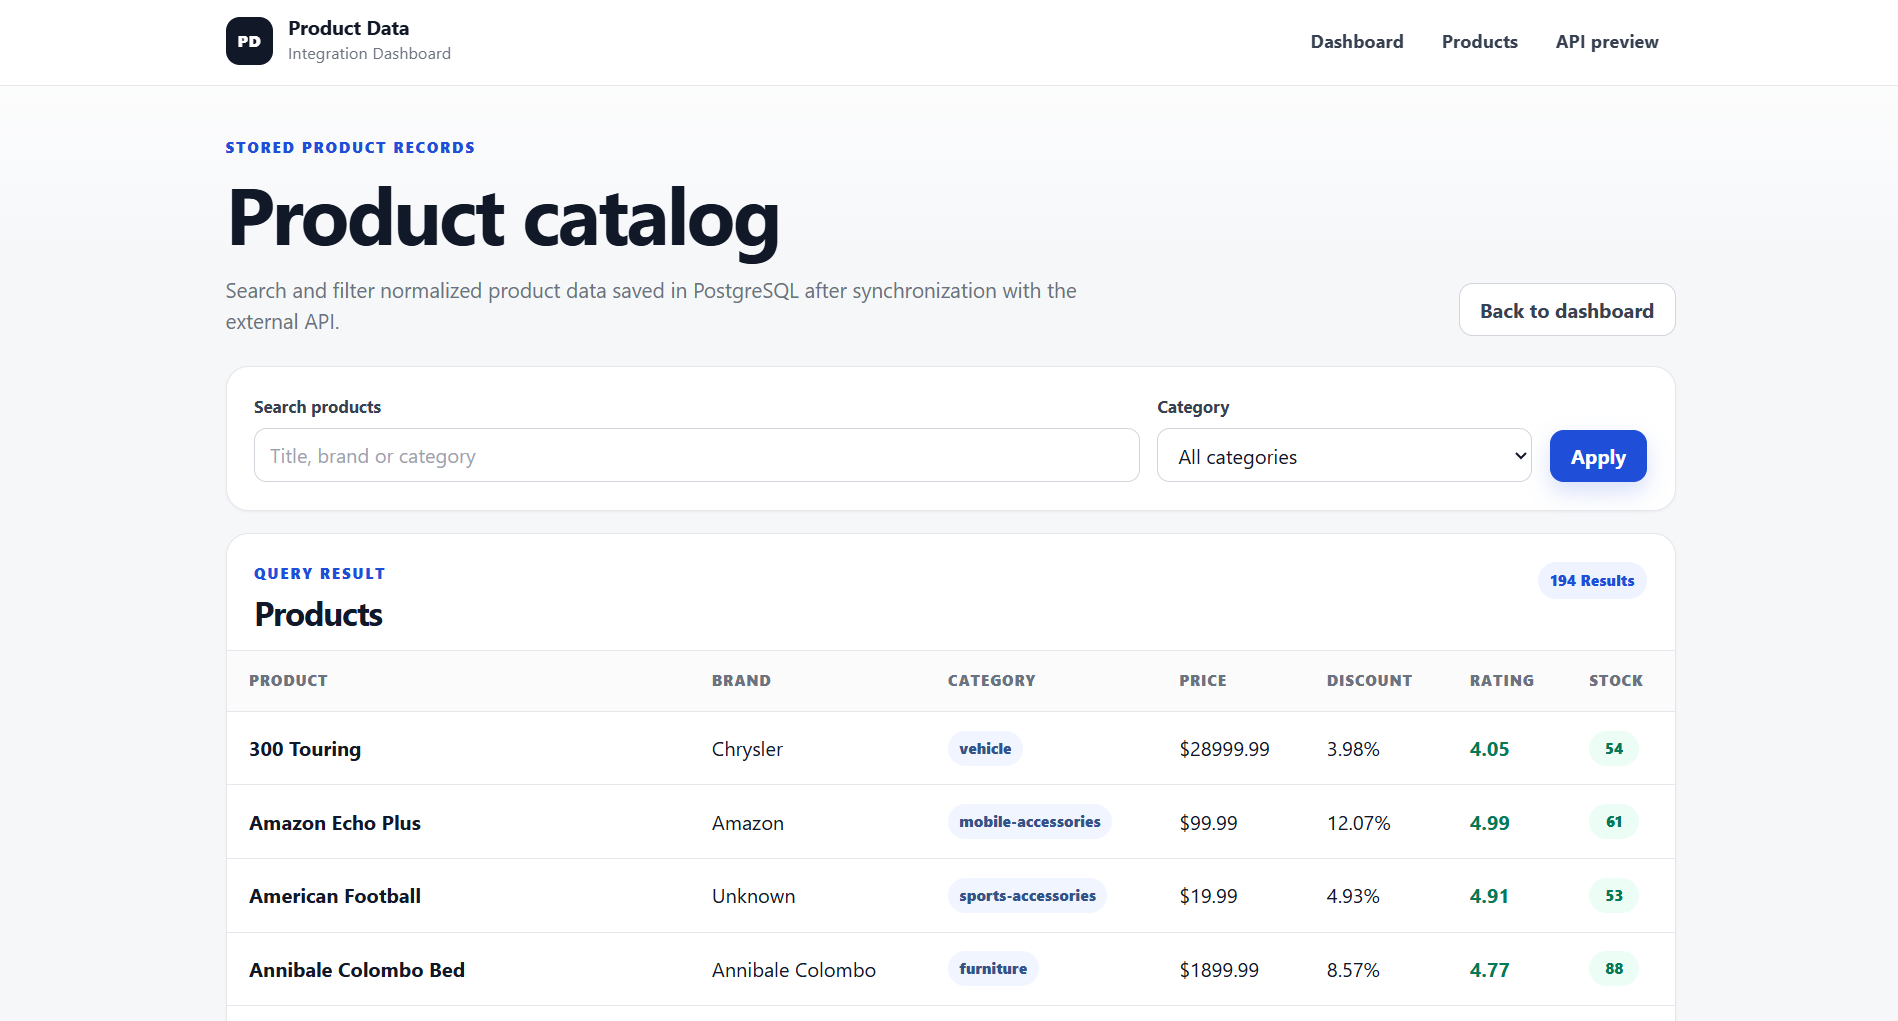
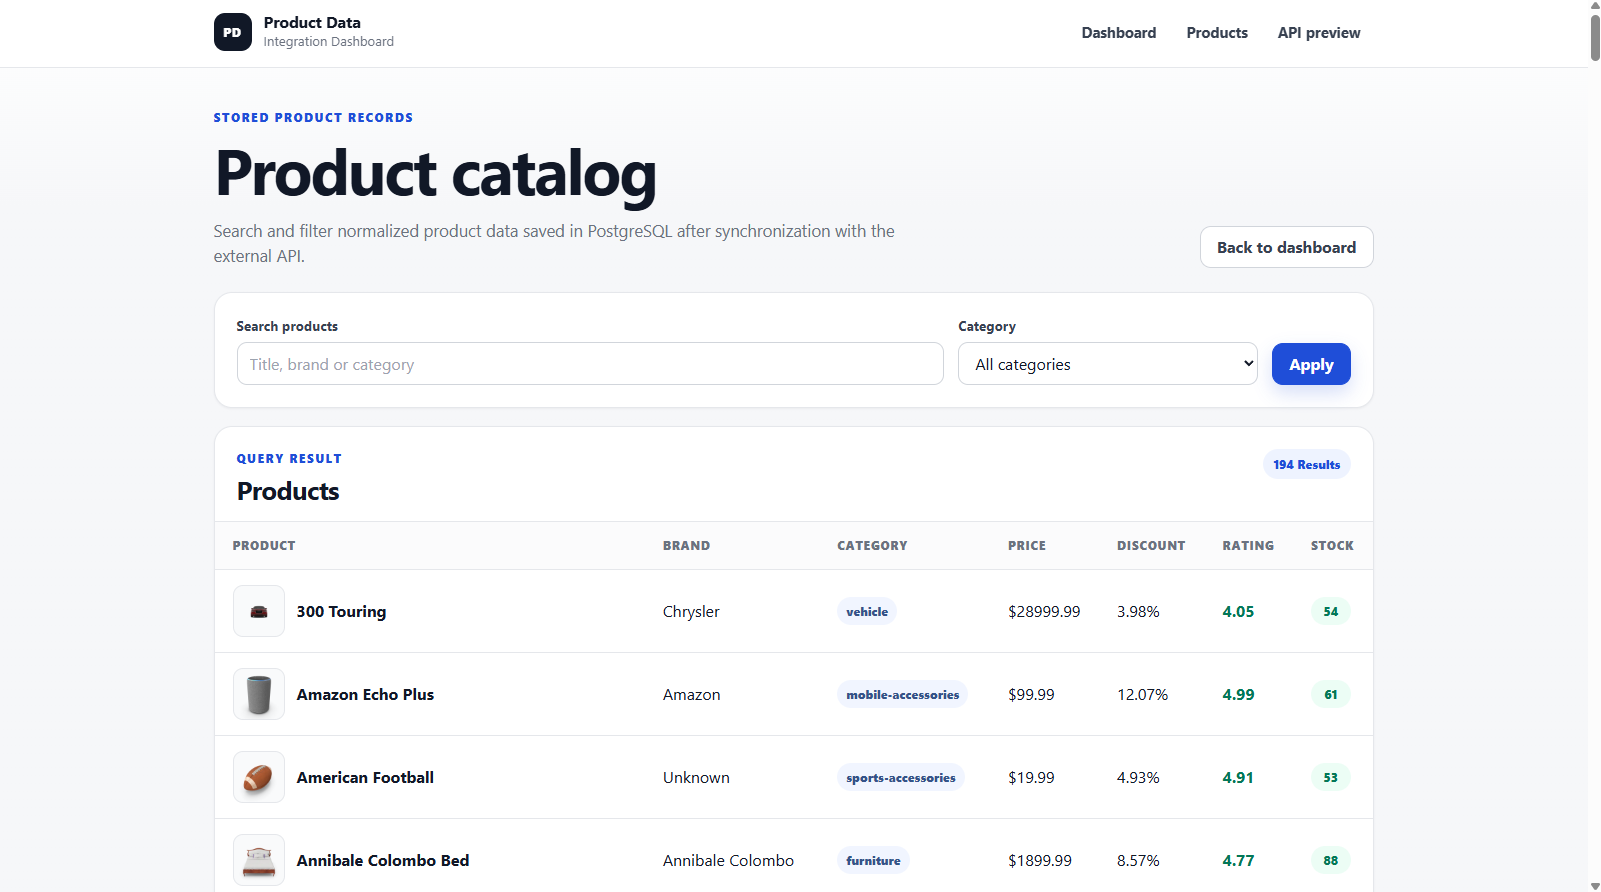
docs: update product catalog screenshot

diff --git a/README.md b/README.md
@@ -19,7 +19,7 @@ DummyJSON Products API
 → Flask/Jinja2 dashboard
 ```
 
-The project currently supports manual synchronization, duplicate prevention, product search, category filtering, dashboard statistics, styled HTML views, and documented manual QA checks.
+The project currently supports manual synchronization, duplicate prevention, product search, category filtering, product thumbnails, dashboard statistics, styled HTML views, and documented manual QA checks.
 
 ## Screenshots
 
@@ -45,6 +45,7 @@ The project currently supports manual synchronization, duplicate prevention, pro
   - low-stock product count.
 - Displays last synchronization status and timestamp.
 - Provides a product list with search and category filtering.
+- Displays product thumbnails from the stored `thumbnail_url` value, with a fallback when an image is missing.
 - Uses shared Jinja2 templates and custom CSS styling.
 - Includes manual QA documentation for the main MVP flow.
 
@@ -151,12 +152,18 @@ Supported statuses:
 
 This makes the synchronization process visible instead of hiding it inside the backend.
 
+### 5. Product catalog rendering
+
+The `/products` page reads saved product records from PostgreSQL and renders them through a Jinja2 table.
+
+For each product, the table now uses the stored `thumbnail_url` value to show a small product image. If a product does not have a thumbnail, the UI shows a compact fallback marker instead of leaving the row visually broken.
+
 ## Routes
 
 | Route | Method | Description |
 |---|---:|---|
 | `/` | GET | Dashboard with product statistics and latest sync information. |
-| `/products` | GET | Product table with optional search and category filtering. |
+| `/products` | GET | Product table with thumbnails, optional search, and category filtering. |
 | `/sync` | POST | Runs product synchronization from the dashboard, writes a sync log, flashes the result message, and redirects back to `/`. |
 | `/sync-preview` | GET | Fetches and normalizes API data without saving it. |
 | `/db-test` | GET | Checks the PostgreSQL connection. |
@@ -333,6 +340,12 @@ Expected successful sync behavior:
 - the message includes the number of imported or updated records,
 - the latest synchronization section shows status, message, records imported, and timestamp.
 
+Expected product catalog behavior:
+
+- product rows show a thumbnail when `thumbnail_url` is available,
+- rows without a thumbnail show a small fallback marker,
+- search and category filters still work with the thumbnail column visible.
+
 Useful SQL checks:
 
 ```sql
@@ -423,6 +436,7 @@ This project helped me practice a full backend data flow instead of isolated Fla
 - using `external_id` and upsert logic to prevent duplicate records,
 - writing SQL queries for filtering, grouping, and dashboard statistics,
 - logging synchronization results to make imports easier to verify,
+- rendering stored image URLs safely in a server-rendered product table,
 - rendering database data through Jinja2 templates.
 
 The most useful part was connecting these pieces into one flow: API client → database layer → Flask route → dashboard.